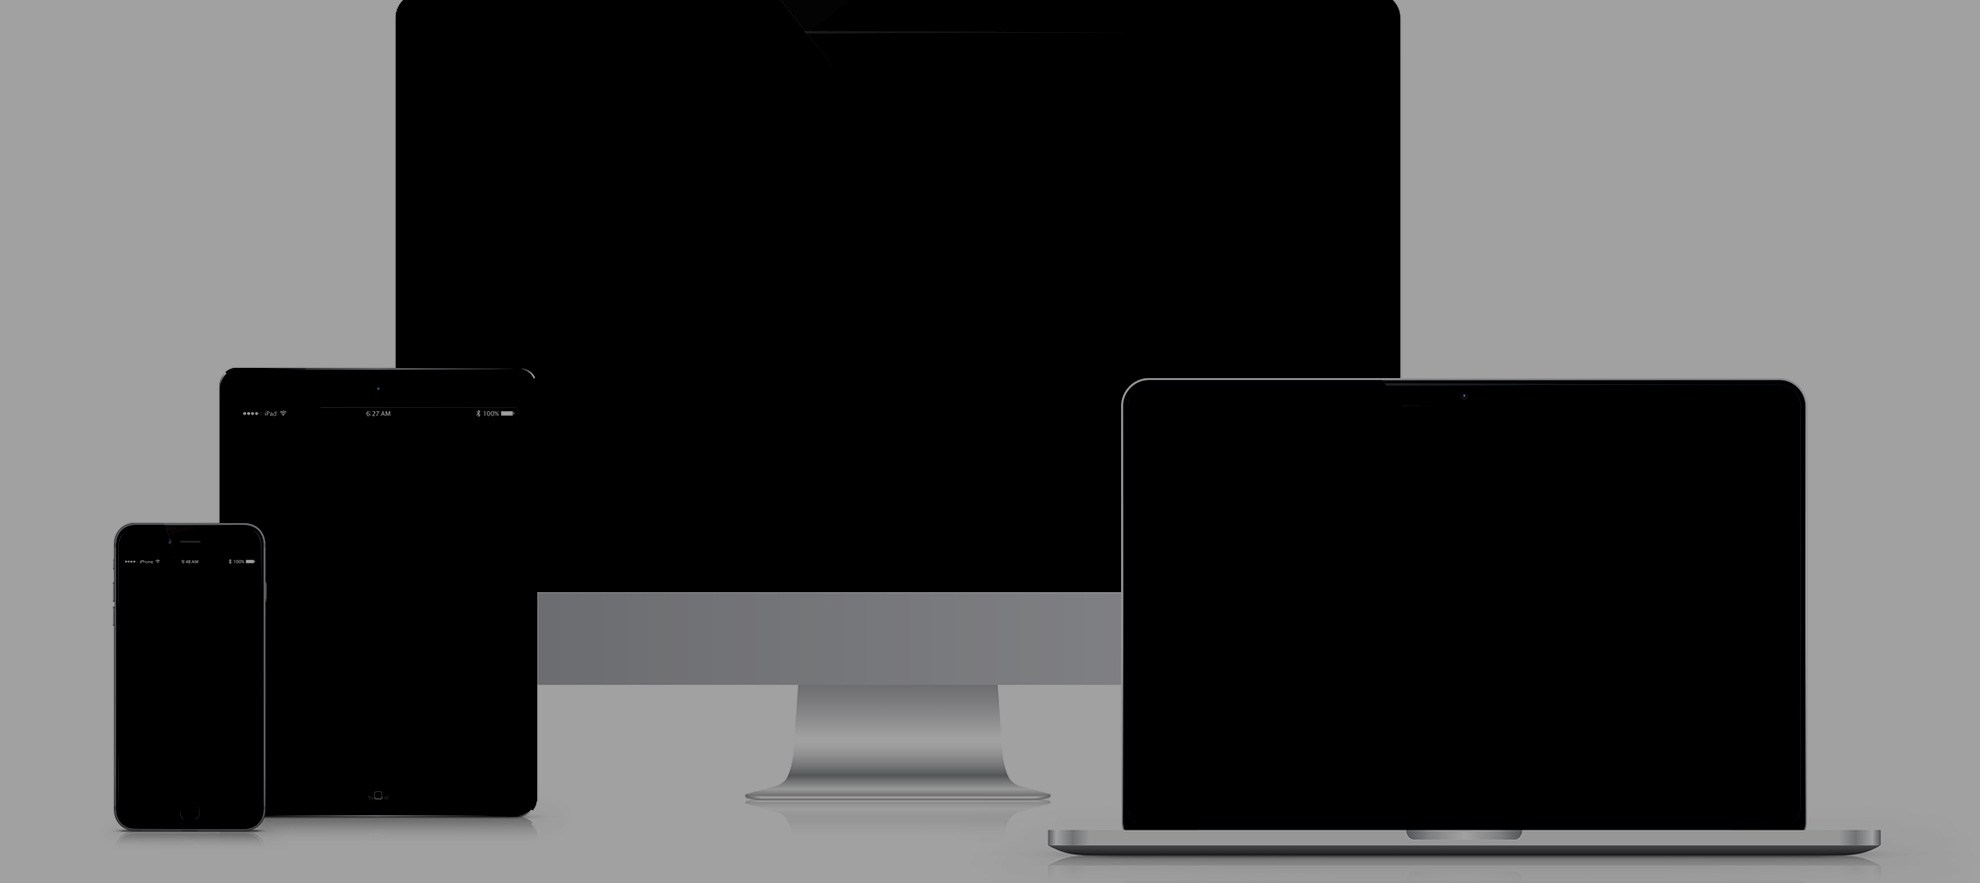
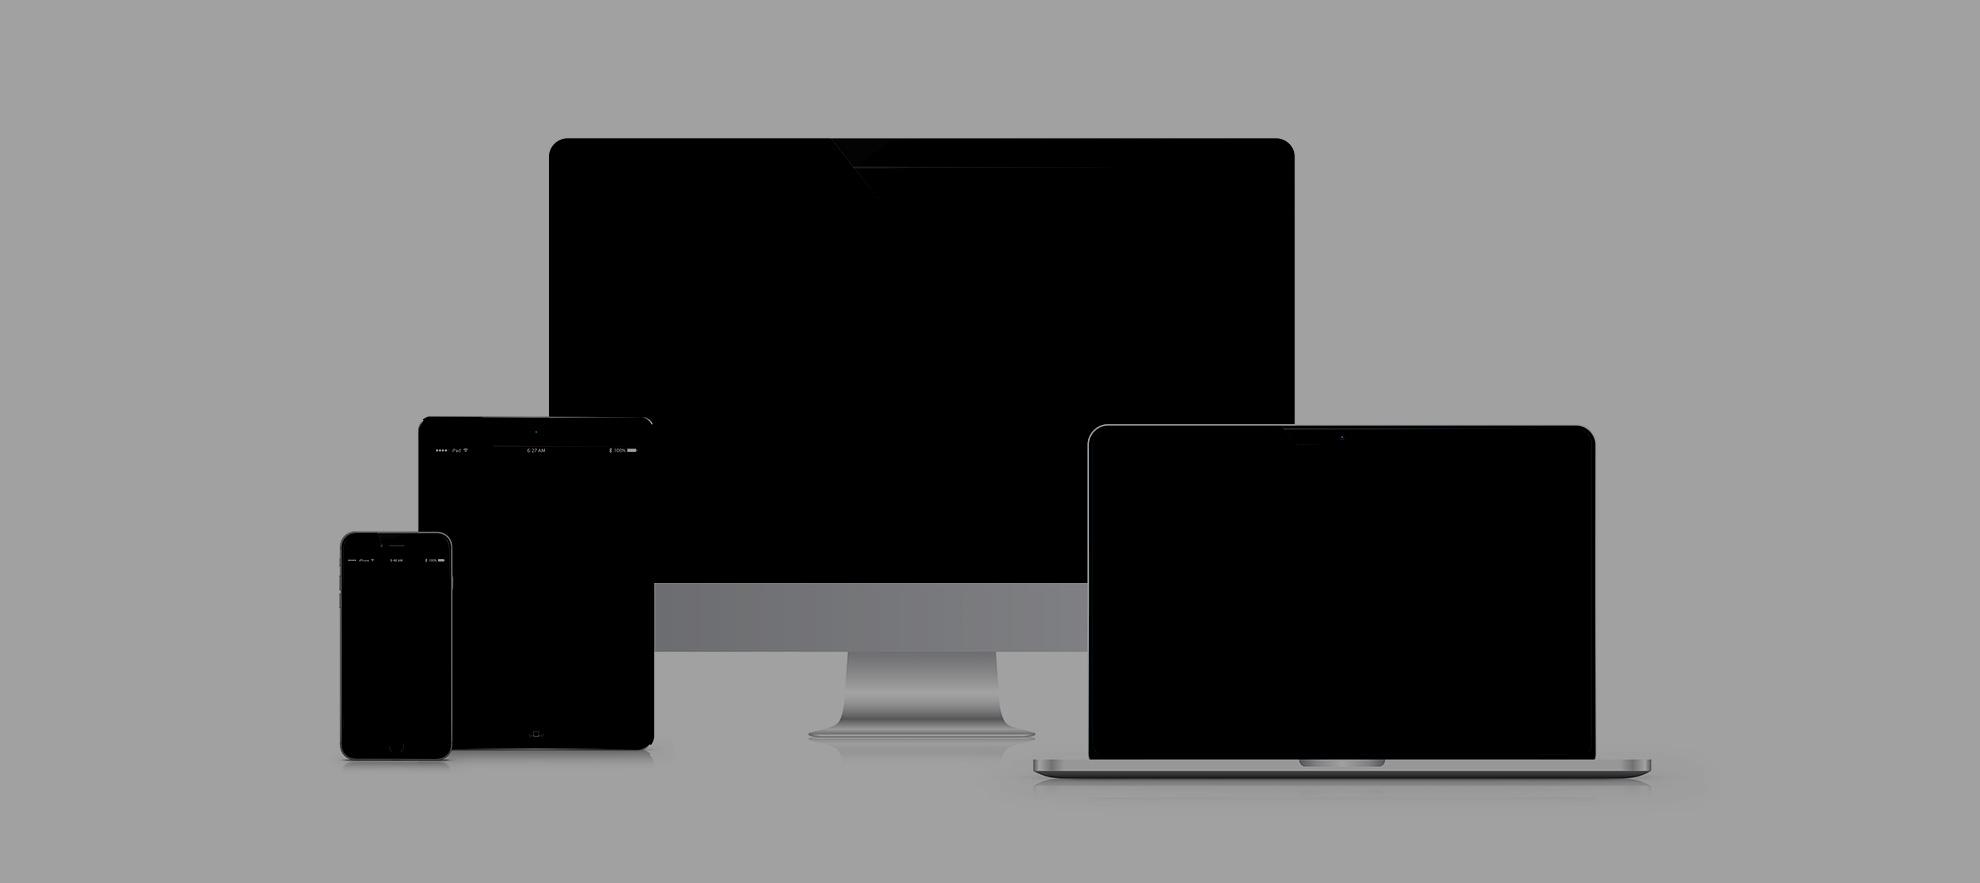
top view modification

diff --git a/htdocs/css/style.css b/htdocs/css/style.css
@@ -205,7 +205,7 @@ a:hover {
   background-size: cover; }
 
 #title.ouchiwari_img {
-  background: url(../img/top_bg_ouchiwari.jpg) no-repeat 50% 70%;
+  background: url(../img/top_bg_ouchiwari.jpg) no-repeat 50% 83%;
   background-size: cover; }
 
 /*-------------------------------------------------

diff --git a/htdocs/css/style.scss b/htdocs/css/style.scss
@@ -205,7 +205,7 @@ a:hover {
     background-size: cover;
 }
 #title.ouchiwari_img{
-    background: url(../img/top_bg_ouchiwari.jpg) no-repeat 50% 70%;
+    background: url(../img/top_bg_ouchiwari.jpg) no-repeat 50% 83%;
     background-size: cover;
 }
 
